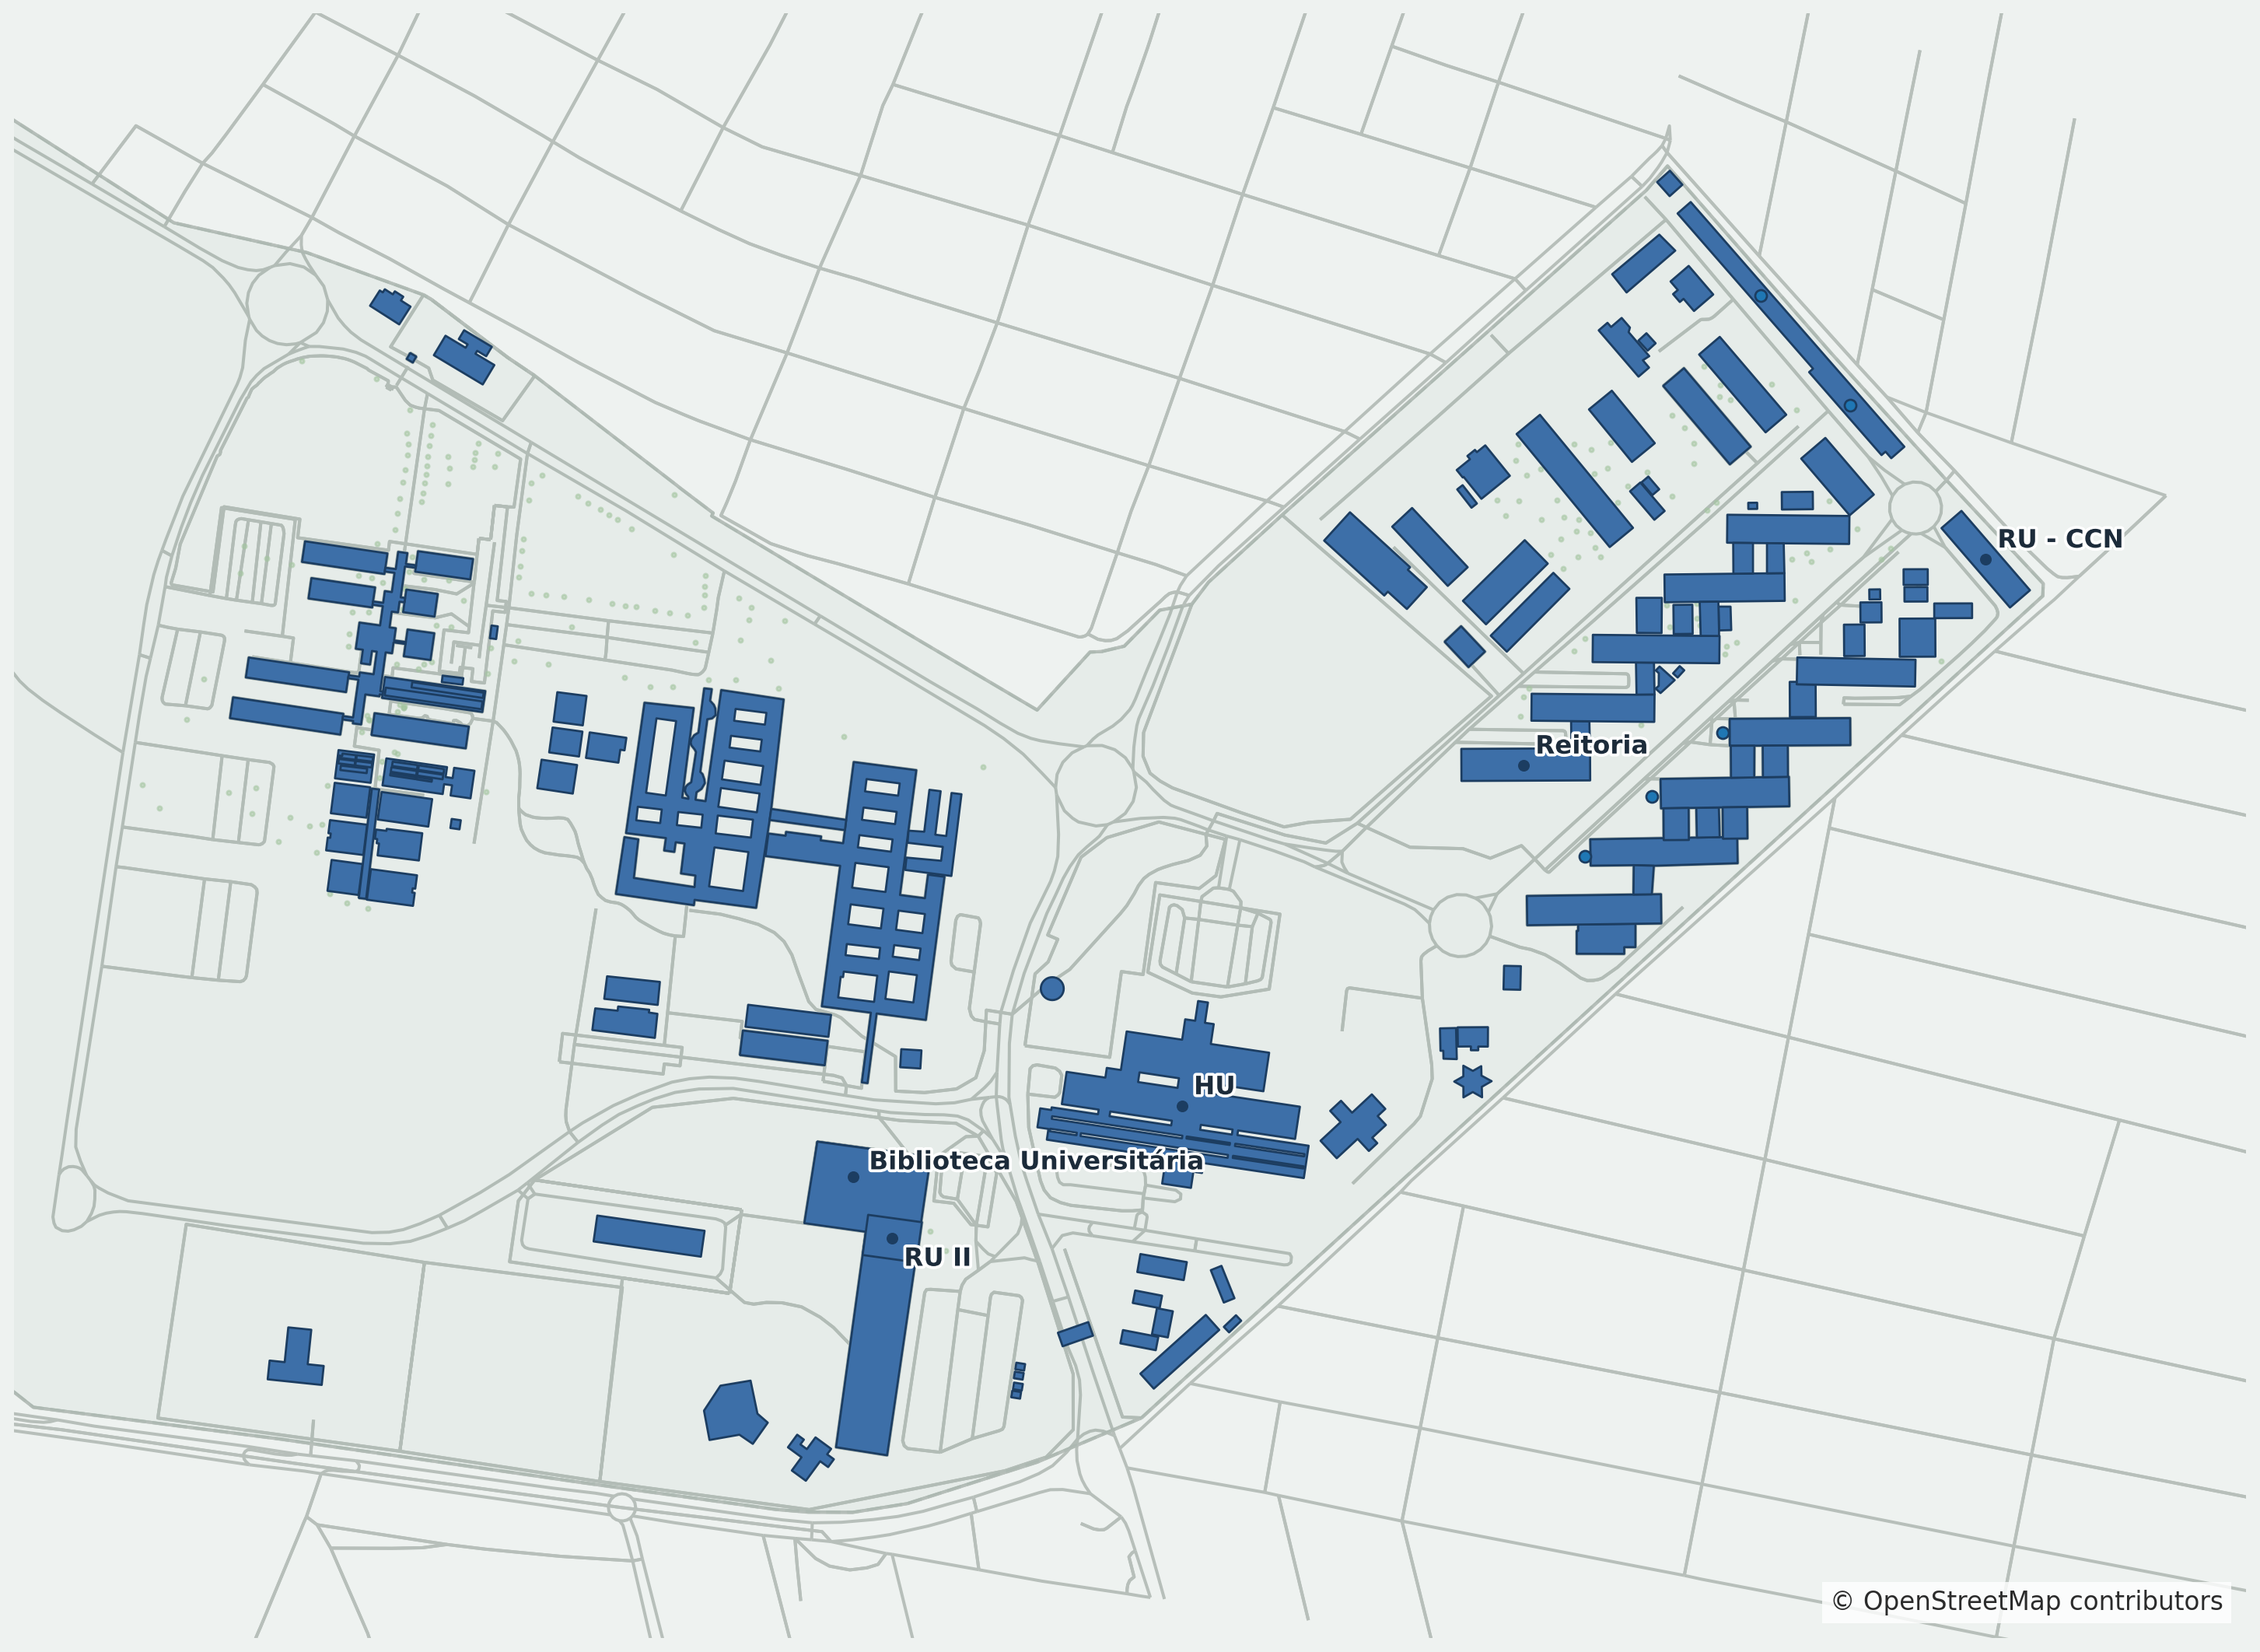
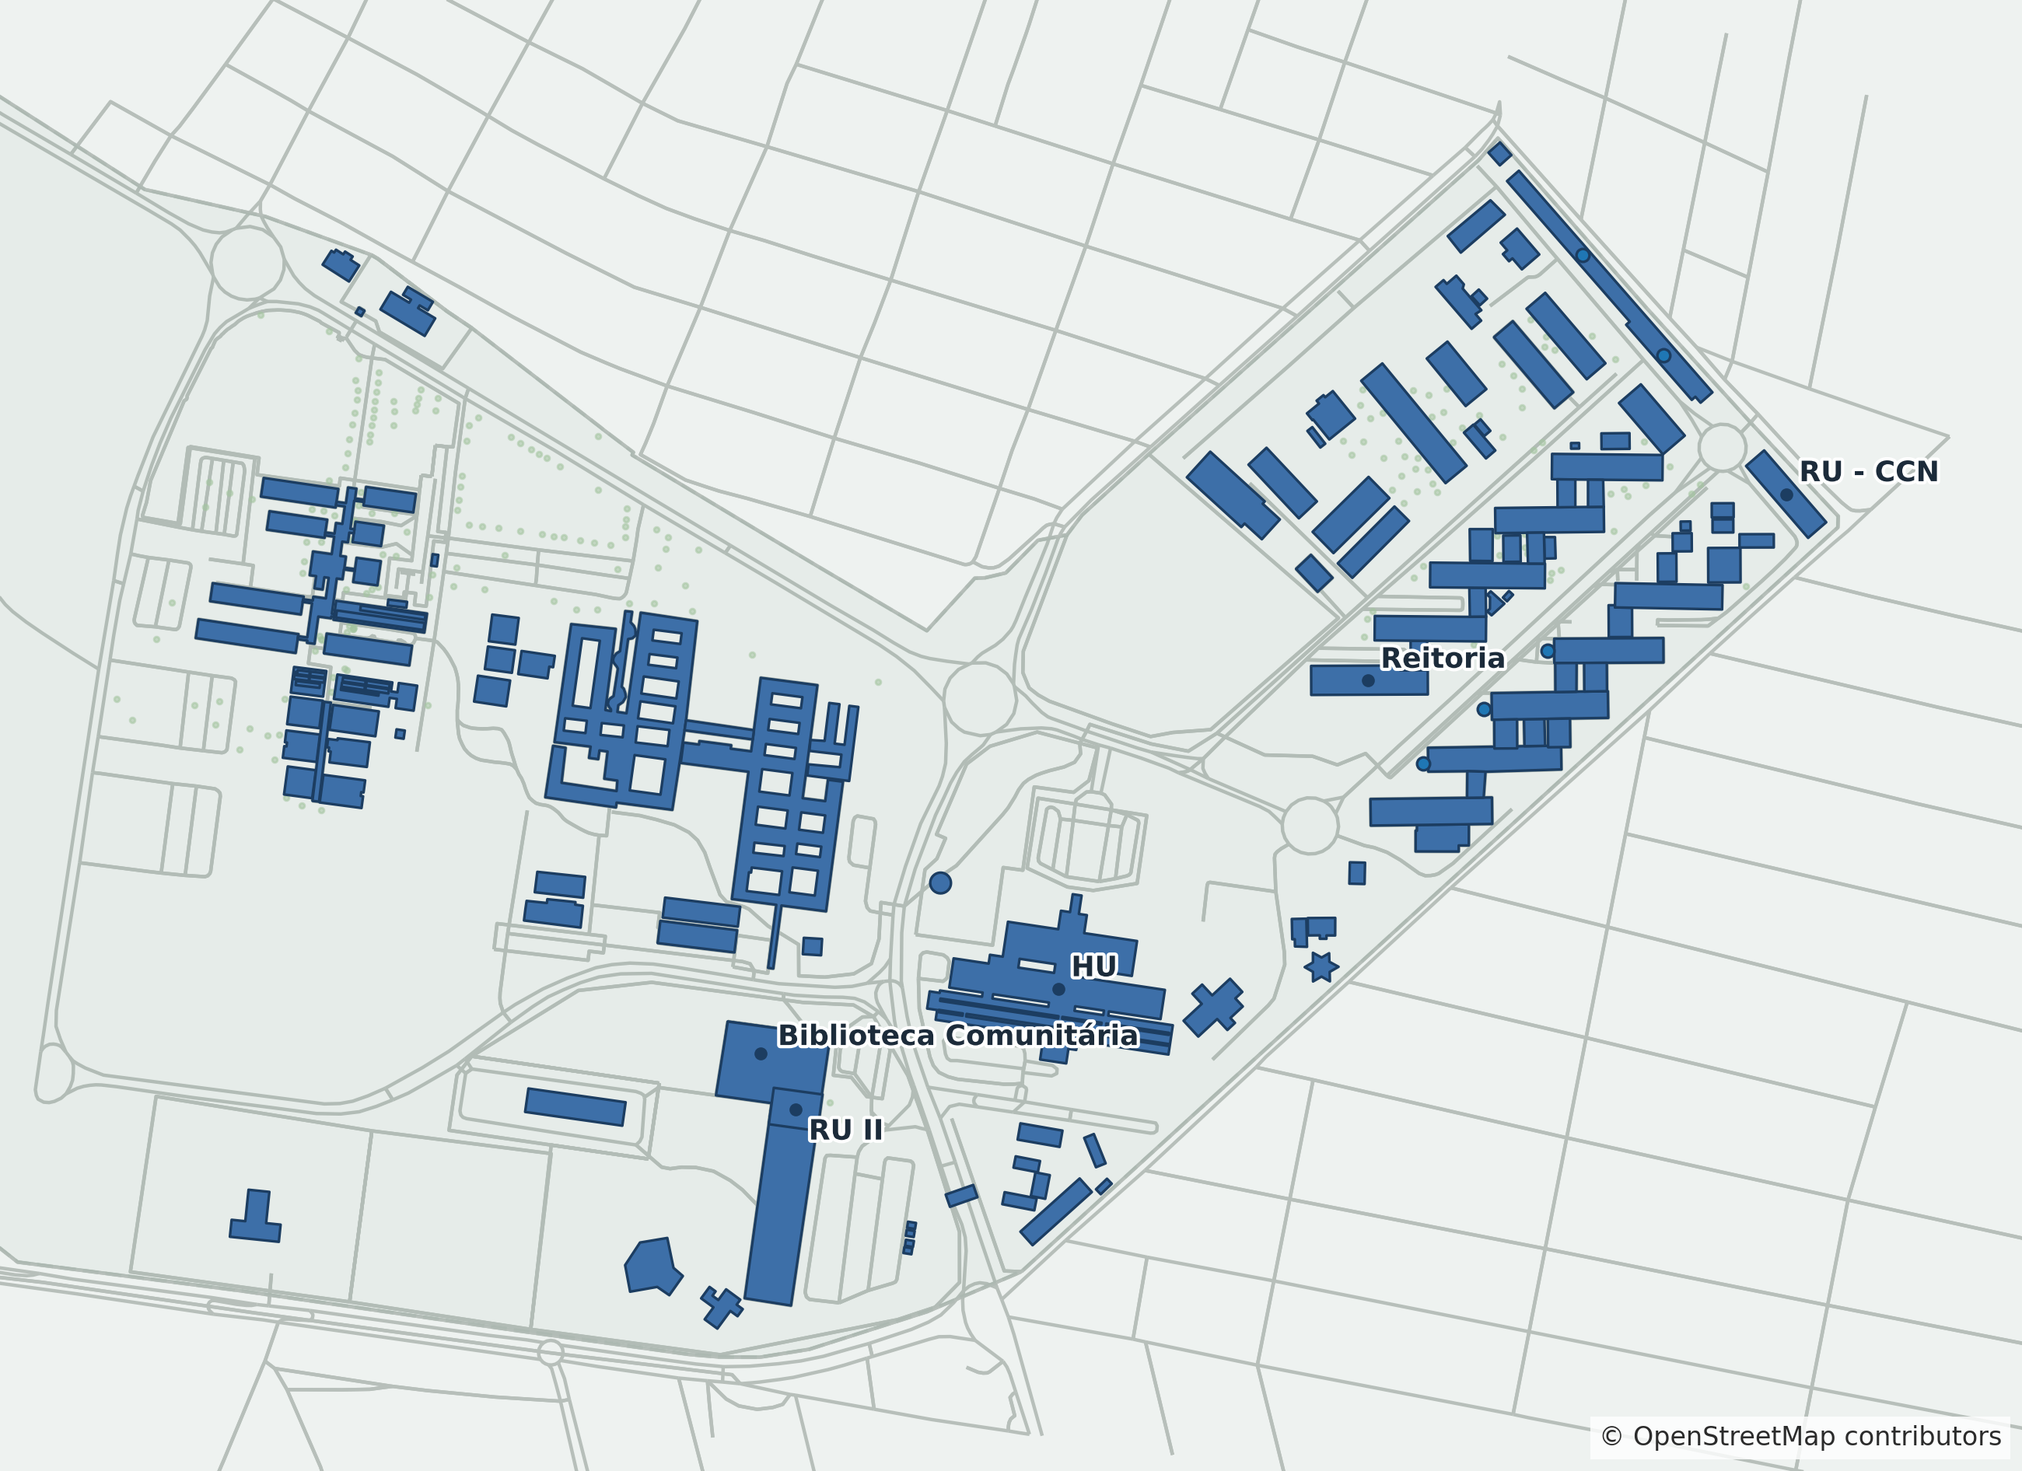
feat: add CCN1/CCN2 zoom views to Localização de Salas screen
Updates the general campus map image and adds two zoomed-in crops
(CCN1 east cluster, CCN2 west cluster), each with its own real-world
lon/lat bounding box. A header toggle switches between the three; a
block's saved position (mapX/mapY, stored relative to the general
image) is reprojected through lat/lon into the target image's own
percentage space when zoomed in, so the same pin lines up correctly
across all three maps without needing a separate stored position per
image. Selecting a zoomed view grays out and disables the opposite
center's side panel.

diff --git a/src/classroom-allocation.jsx b/src/classroom-allocation.jsx
@@ -14,6 +14,8 @@ import * as authApi from './db/authApi.js';
 import { useRealtimeSync } from './db/useRealtimeSync.js';
 import { supabaseConfigured } from './db/supabaseClient.js';
 import campusMapImg from './assets/campus-map.png';
+import campusMapCcn1Img from './assets/campus-map-ccn1.png';
+import campusMapCcn2Img from './assets/campus-map-ccn2.png';
 // ?url força o Vite a tratar o import como URL de asset estático mesmo
 // .xlsx não estando na lista padrão de extensões reconhecidas (que cobre
 // principalmente imagem/mídia/fonte) — sem isso, precisaria de
@@ -1431,33 +1433,43 @@ function RoomMapGrid({rooms,alloc,mapHours,buildColMap,gRole,gBlockLabel,subUnit
 // Posição de cada pino é salva como porcentagem da imagem (block.mapX/mapY,
 // 0-100), não pixel — continua válida em qualquer tamanho de tela ou se a
 // imagem for trocada por uma versão de resolução diferente depois. ─────────
-// Converte a posição percentual de um pino (block.mapX/mapY, 0-100) em
-// lat/lon real, pra abrir a localização/rota no Google Maps sem precisar
-// cadastrar coordenada por bloco. A princípio dava pra fazer isso por
-// interpolação linear direta usando a tag <bounds> do map.osm original
-// (export do OpenStreetMap usado pra gerar campus-map.png, mantido fora do
-// repo) — mas a proporção lon/lat desse bbox bruto não bate com a
-// proporção da imagem renderizada (a ferramenta de export recortou/deu
-// margem diferente da consulta bruta), o que gerava erro de até ~50-116m.
-// Por isso os coeficientes abaixo vêm de uma transformação afim (rotação +
-// escala não-uniforme, sem distorção perspectiva) calibrada por mínimos
-// quadrados a partir de 5 pontos de controle: prédios com marcador/rótulo
-// já "cozidos" na própria imagem (RU-CCN, Reitoria, HU, RU II, Biblioteca
-// Universitária) cuja posição em pixel foi extraída detectando o ponto
-// escuro do marcador na imagem, casada com a lat/lon real do mesmo prédio
-// lida do map.osm — erro residual caiu pra ~2-17m. Se a imagem for trocada
-// de novo, repetir esse processo (achar prédios rotulados na imagem nova,
-// pegar lat/lon deles no .osm correspondente, reajustar os coeficientes).
-const CAMPUS_GEO_TRANSFORM={
-  latA:7.39853864e-6,  latB:-1.08716770e-4, latC:-5.05296922,
-  lonA:1.53449600e-4,  lonB:-3.49992620e-6, lonC:-42.80189400,
+// Três imagens: o mapa geral (onde block.mapX/mapY — 0-100% — é de fato
+// salvo/editado) e dois recortes com mais zoom, um por centro (CCN1 =
+// cluster leste/Reitoria, CCN2 = cluster oeste/HU) — ver "zoom" mais abaixo.
+// Cada bbox aqui é o lon/lat real coberto pelos 4 cantos da respectiva
+// imagem, medido a partir do dado geográfico de origem (não é mais a tag
+// <bounds> bruta de uma consulta OSM, que numa versão anterior desta tela
+// não batia com a proporção da imagem já renderizada e gerava erro de
+// ~50-116m) — a proporção lon/lat de cada bbox abaixo já bate com o
+// px_width/px_height da respectiva imagem, então dá pra interpolar
+// linearmente sem precisar de nenhuma calibração extra.
+const CAMPUS_MAPS={
+  geral:{img:campusMapImg,local:null,label:'Mapa Geral',pxWidth:2600,pxHeight:1892,
+    lonMin:-42.802288408,lonMax:-42.786554792,latMin:-5.063605871999999,latMax:-5.052200228},
+  ccn1:{img:campusMapCcn1Img,local:'CCN1',label:'CCN1',pxWidth:1600,pxHeight:2227,
+    lonMin:-42.793978816,lonMax:-42.787177184,latMin:-5.061485530000001,latMax:-5.05205597},
+  ccn2:{img:campusMapCcn2Img,local:'CCN2',label:'CCN2',pxWidth:2400,pxHeight:1778,
+    lonMin:-42.801539245,lonMax:-42.794836055,latMin:-5.060280730000001,latMax:-5.05533527},
 };
-function pinLatLng(x,y){
-  const{latA,latB,latC,lonA,lonB,lonC}=CAMPUS_GEO_TRANSFORM;
-  const lat=latA*x+latB*y+latC;
-  const lon=lonA*x+lonB*y+lonC;
+// Posição percentual (0-100, em cima da imagem `mapKey`) -> lat/lon real.
+function pctToLatLng(mapKey,xPct,yPct){
+  const m=CAMPUS_MAPS[mapKey];
+  const lat=m.latMax-(yPct/100)*(m.latMax-m.latMin);
+  const lon=m.lonMin+(xPct/100)*(m.lonMax-m.lonMin);
   return{lat,lon};
 }
+// Inverso: lat/lon real -> posição percentual na imagem `mapKey`. Usado pra
+// projetar um pino salvo em relação ao mapa geral dentro de um dos recortes
+// com zoom (CCN1/CCN2), que não têm sua própria coluna de posição — a
+// mesma coordenada real é reaproveitada nos três mapas.
+function latLngToPct(mapKey,lat,lon){
+  const m=CAMPUS_MAPS[mapKey];
+  return{
+    x:((lon-m.lonMin)/(m.lonMax-m.lonMin))*100,
+    y:((m.latMax-lat)/(m.latMax-m.latMin))*100,
+  };
+}
+function pinLatLng(x,y){ return pctToLatLng('geral',x,y); }
 
 function CampusMapScreen({blocks,rooms,onBack}){
   const{can}=useAuth();
@@ -1480,6 +1492,11 @@ function CampusMapScreen({blocks,rooms,onBack}){
   const[expandedIds,setExpandedIds]=useState(()=>new Set());
   const[highlightId,setHighlightId]=useState(null);
   const pinRefs=useRef({});
+  // "Zoom" simples: troca a imagem exibida por um recorte focado num dos
+  // centros. Editar posição só faz sentido no mapa geral (é onde
+  // block.mapX/mapY de fato mora), então entrar em edição sempre volta pra
+  // 'geral' e a troca de mapa fica escondida enquanto editing=true.
+  const[mapView,setMapView]=useState('geral');
 
   const showToast=(msg,type='ok')=>{setToast({msg,type});setTimeout(()=>setToast(null),4000);};
 
@@ -1487,6 +1504,18 @@ function CampusMapScreen({blocks,rooms,onBack}){
   const unpositioned=useMemo(()=>blocks.filter(b=>b.mapX==null||b.mapY==null),[blocks]);
   const roomsOf=blockId=>rooms.filter(r=>r.blockId===blockId);
   const selectedBlock=blocks.find(b=>b.id===selectedId)??null;
+  const currentMap=CAMPUS_MAPS[mapView];
+  // Pinos a desenhar no mapa atual: no geral é a posição salva direto; num
+  // recorte com zoom, reprojeta a mesma coordenada real (via mapa geral)
+  // pra posição % dentro daquele recorte, e só pros blocos daquele centro.
+  const pinsToRender=useMemo(()=>{
+    if(mapView==='geral')return positioned.map(b=>({...b,_x:b.mapX,_y:b.mapY}));
+    return positioned.filter(b=>b.local===currentMap.local).map(b=>{
+      const{lat,lon}=pctToLatLng('geral',b.mapX,b.mapY);
+      const{x,y}=latLngToPct(mapView,lat,lon);
+      return{...b,_x:x,_y:y};
+    });
+  },[mapView,positioned,currentMap.local]);
 
   const stopEditing=()=>{setEditing(false);setPlacingId(null);setDragId(null);setDragPos(null);setSelectedId(null);};
 
@@ -1546,10 +1575,11 @@ function CampusMapScreen({blocks,rooms,onBack}){
     pinRefs.current[id]?.scrollIntoView({behavior:'smooth',block:'center',inline:'center'});
   };
 
-  const renderBlockPanel=(local,side)=>{
+  const renderBlockPanel=(local,side,disabled=false)=>{
     const list=blocks.filter(b=>b.local===local);
     return(
-      <div style={{width:250,flexShrink:0,[side==='left'?'borderRight':'borderLeft']:`1px solid ${T.bdr}`,background:T.surface,overflow:'auto',padding:14}}>
+      <div style={{width:250,flexShrink:0,[side==='left'?'borderRight':'borderLeft']:`1px solid ${T.bdr}`,background:T.surface,overflow:'auto',padding:14,
+        opacity:disabled?.45:1,filter:disabled?'grayscale(1)':'none',pointerEvents:disabled?'none':'auto',transition:'opacity .15s,filter .15s'}}>
         <div style={{fontSize:12,fontWeight:700,color:T.txt,marginBottom:2}}>{local}</div>
         <div style={{...mono,fontSize:10,color:T.dim,marginBottom:10}}>{list.length} bloco{list.length!==1?'s':''}</div>
         {list.length===0?(
@@ -1605,11 +1635,22 @@ function CampusMapScreen({blocks,rooms,onBack}){
         <button className="icon-btn" onClick={onBack} title="Voltar ao menu" style={{padding:'5px 10px',background:T.inner,border:`1px solid ${T.bdr2}`,borderRadius:6,color:T.muted,fontSize:12,cursor:'pointer'}}>☰</button>
         <span style={{fontSize:14,fontWeight:700,color:T.txt}}>📍 Localização de Salas</span>
         <div style={{width:1,height:16,background:T.bdr2}}/>
-        <span style={{...mono,fontSize:11,color:T.dim}}>{positioned.length} bloco{positioned.length!==1?'s':''} no mapa{unpositioned.length>0?` · ${unpositioned.length} sem posição`:''}</span>
+        <span style={{...mono,fontSize:11,color:T.dim}}>{pinsToRender.length} bloco{pinsToRender.length!==1?'s':''} no mapa{mapView==='geral'&&unpositioned.length>0?` · ${unpositioned.length} sem posição`:''}</span>
+        {!editing&&(
+          <div style={{display:'flex',gap:3,background:T.inner,padding:3,borderRadius:8,border:`1px solid ${T.bdr2}`,marginLeft:6}}>
+            {Object.entries(CAMPUS_MAPS).map(([key,m])=>(
+              <button key={key} onClick={()=>setMapView(key)}
+                style={{padding:'4px 11px',borderRadius:6,border:'none',cursor:'pointer',fontSize:11,fontWeight:600,
+                  background:mapView===key?'#3b82f6':'transparent',color:mapView===key?'#fff':T.muted}}>
+                {m.label}
+              </button>
+            ))}
+          </div>
+        )}
         <div style={{flex:1}}/>
         {saving&&<span style={{...mono,fontSize:10,color:T.dim}}>Salvando…</span>}
         {canEdit&&(
-          <button className="icon-btn" onClick={()=>editing?stopEditing():setEditing(true)}
+          <button className="icon-btn" onClick={()=>{if(editing){stopEditing();}else{setMapView('geral');setEditing(true);}}}
             style={{padding:'5px 12px',background:editing?'#3b82f6':T.inner,border:`1px solid ${editing?'#3b82f6':T.bdr2}`,borderRadius:6,color:editing?'#fff':T.muted,fontSize:11,fontWeight:600,cursor:'pointer'}}>
             {editing?'✕ Concluir edição':'✎ Editar posições'}
           </button>
@@ -1635,7 +1676,7 @@ function CampusMapScreen({blocks,rooms,onBack}){
               </button>
             ))}
           </div>
-        ):renderBlockPanel('CCN2','left')}
+        ):renderBlockPanel('CCN2','left',mapView==='ccn1')}
 
         <div style={{flex:1,minWidth:0,minHeight:0,overflow:'hidden',position:'relative',background:'#dfe3e0',display:'flex',alignItems:'center',justifyContent:'center'}}>
           {/* aspectRatio+max-w/h (em vez de um width fixo em px) faz esse
@@ -1647,14 +1688,14 @@ function CampusMapScreen({blocks,rooms,onBack}){
           da imagem (sem sobra tipo letterbox), a matemática de % continua
           válida sem nenhuma mudança. */}
           <div ref={imgWrapRef} onClick={handleMapClick}
-            style={{position:'relative',aspectRatio:'2906/2124',maxWidth:'100%',maxHeight:'100%',width:'auto',height:'auto',cursor:editing&&placingId?'crosshair':'default'}}>
-            <img src={campusMapImg} alt="Mapa do campus" draggable={false}
+            style={{position:'relative',aspectRatio:`${currentMap.pxWidth}/${currentMap.pxHeight}`,maxWidth:'100%',maxHeight:'100%',width:'auto',height:'auto',cursor:editing&&placingId?'crosshair':'default'}}>
+            <img src={currentMap.img} alt={`Mapa ${currentMap.label}`} draggable={false}
               style={{display:'block',width:'100%',height:'100%',userSelect:'none'}}/>
 
-            {positioned.map(b=>{
+            {pinsToRender.map(b=>{
               const isDragging=dragId===b.id;
-              const x=isDragging&&dragPos?dragPos.x:b.mapX;
-              const y=isDragging&&dragPos?dragPos.y:b.mapY;
+              const x=isDragging&&dragPos?dragPos.x:b._x;
+              const y=isDragging&&dragPos?dragPos.y:b._y;
               const isHighlighted=highlightId===b.id;
               return(
                 <div key={b.id} ref={el=>{pinRefs.current[b.id]=el;}}
@@ -1684,7 +1725,7 @@ function CampusMapScreen({blocks,rooms,onBack}){
           </div>
         </div>
 
-        {!editing&&renderBlockPanel('CCN1','right')}
+        {!editing&&renderBlockPanel('CCN1','right',mapView==='ccn2')}
       </div>
 
       {selectedBlock&&!editing&&(
